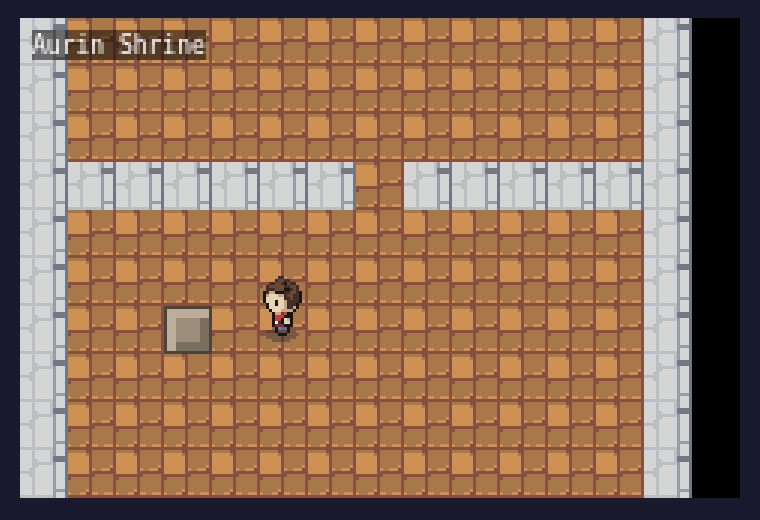
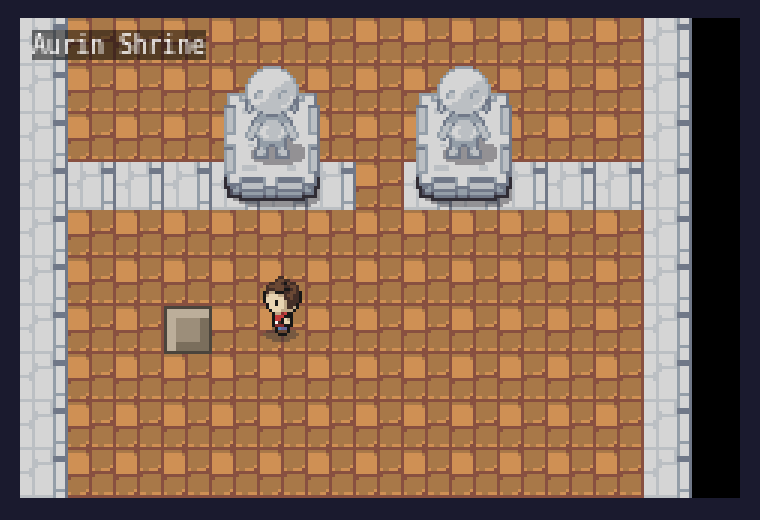
Terrace reads as elevation; stone shrine facade; direction-aware stairs
- Stairs textures split into stairs_h (east-west climb, vertical risers)
  and stairs_v — the old single texture looked rotated 90 degrees
- Outskirts cliff wall now fully encloses the terrace (treeline to the
  south face) so the upper level cannot be entered except by the stairs
- New props feature: maps can place multi-tile structures from the
  sheet; used for the stone shrine entrance (arched facade with wooden
  doors) on the terrace and two guardian statues flanking the trial
  gate inside the shrine
- Smoke test adjusted for the new shrine door position

Changed region(s): [[0.5447, 0.1231, 0.6961, 0.4], [0.2724, 0.1231, 0.4237, 0.4]]

diff --git a/src/engine/textures.ts b/src/engine/textures.ts
@@ -20,15 +20,17 @@ export const TILE_FRAMES: Record<number, number> = {
   6: f(25, 3), // arched doorway
   7: f(13, 15), // seal: cobble base, crystal drawn on top
   8: f(25, 1), // barred gate (solid until opened)
-  9: f(13, 15), // stairs: cobble base, generated steps drawn on top
+  9: f(13, 15), // stairs ascending east-west: cobble base + generated steps
   10: f(5, 13), // cliff face
   11: f(13, 15), // pressure plate: cobble base, generated plate on top
+  12: f(13, 15), // stairs ascending north-south: cobble base + generated steps
 };
 
 export const TREE_TILE = 3;
 export const SEAL_TILE = 7;
-export const STAIRS_TILE = 9;
+export const STAIRS_H_TILE = 9;
 export const PLATE_TILE = 11;
+export const STAIRS_V_TILE = 12;
 /** Tile id that opened gates turn into. */
 export const FLOOR_TILE = 1;
 
@@ -74,17 +76,35 @@ export function setupDerivedTextures(scene: Phaser.Scene): void {
     g.destroy();
   }
 
-  // stone steps (original): four treads with darker risers
-  if (!scene.textures.exists("stairs")) {
+  // stone steps (original). Risers run perpendicular to the climb:
+  // stairs_h climbs east-west (vertical risers), stairs_v north-south.
+  if (!scene.textures.exists("stairs_h")) {
     const g = scene.add.graphics();
-    g.fillStyle(0xa8a098);
-    g.fillRect(0, 0, TILE_SIZE, TILE_SIZE);
-    g.fillStyle(0x6a625a);
-    for (let i = 0; i < 4; i++) g.fillRect(0, i * 4 + 3, TILE_SIZE, 1);
-    g.fillStyle(0x8a827a);
+    for (let i = 0; i < 4; i++) {
+      // each step slightly lighter toward the top of the climb (east)
+      g.fillStyle([0x8a8278, 0x9a9288, 0xaaa298, 0xbab2a8][i]);
+      g.fillRect(i * 4, 0, 4, TILE_SIZE);
+      g.fillStyle(0x5a544c);
+      g.fillRect(i * 4, 0, 1, TILE_SIZE);
+    }
+    g.fillStyle(0x4a443c);
+    g.fillRect(0, 0, TILE_SIZE, 1);
+    g.fillRect(0, 15, TILE_SIZE, 1);
+    g.generateTexture("stairs_h", TILE_SIZE, TILE_SIZE);
+    g.destroy();
+  }
+  if (!scene.textures.exists("stairs_v")) {
+    const g = scene.add.graphics();
+    for (let i = 0; i < 4; i++) {
+      g.fillStyle([0xbab2a8, 0xaaa298, 0x9a9288, 0x8a8278][i]);
+      g.fillRect(0, i * 4, TILE_SIZE, 4);
+      g.fillStyle(0x5a544c);
+      g.fillRect(0, i * 4, TILE_SIZE, 1);
+    }
+    g.fillStyle(0x4a443c);
     g.fillRect(0, 0, 1, TILE_SIZE);
     g.fillRect(15, 0, 1, TILE_SIZE);
-    g.generateTexture("stairs", TILE_SIZE, TILE_SIZE);
+    g.generateTexture("stairs_v", TILE_SIZE, TILE_SIZE);
     g.destroy();
   }
 

diff --git a/src/scenes/WorldScene.ts b/src/scenes/WorldScene.ts
@@ -12,7 +12,8 @@ import {
   HERO_WALK,
   PLATE_TILE,
   SEAL_TILE,
-  STAIRS_TILE,
+  STAIRS_H_TILE,
+  STAIRS_V_TILE,
   TILE_FRAMES,
   TILE_SIZE,
   TREE_TILE,
@@ -114,12 +115,35 @@ export class WorldScene extends Phaser.Scene {
             .image(x * TILE_SIZE, y * TILE_SIZE, "seal_crystal")
             .setOrigin(0, 0)
             .setDepth(y * TILE_SIZE);
-        } else if (id === STAIRS_TILE) {
-          this.add.image(x * TILE_SIZE, y * TILE_SIZE, "stairs").setOrigin(0, 0);
+        } else if (id === STAIRS_H_TILE) {
+          this.add
+            .image(x * TILE_SIZE, y * TILE_SIZE, "stairs_h")
+            .setOrigin(0, 0);
+        } else if (id === STAIRS_V_TILE) {
+          this.add
+            .image(x * TILE_SIZE, y * TILE_SIZE, "stairs_v")
+            .setOrigin(0, 0);
         } else if (id === PLATE_TILE) {
           this.add.image(x * TILE_SIZE, y * TILE_SIZE, "plate").setOrigin(0, 0);
         }
       }
+    }
+
+    // decorative props (multi-tile structures from the sheet)
+    const overworld = this.textures.get("overworld");
+    for (const [i, p] of (this.map.props ?? []).entries()) {
+      const key = `prop_${this.mapId}_${i}`;
+      const [sx, sy, w, h] = p.sheet;
+      if (!overworld.has(key)) overworld.add(key, 0, sx, sy, w, h);
+      this.add
+        .image(
+          p.x * TILE_SIZE + (p.dx ?? 0),
+          p.y * TILE_SIZE + (p.dy ?? 0),
+          "overworld",
+          key
+        )
+        .setOrigin(0, 0)
+        .setDepth(p.y * TILE_SIZE + h - TILE_SIZE);
     }
 
     // pushable blocks

diff --git a/src/engine/types.ts b/src/engine/types.ts
@@ -23,6 +23,19 @@ export interface MapData {
   blocks?: Point[];
   /** Block-on-plate puzzle: cover all plates to open all gates. */
   puzzle?: PuzzleData;
+  /** Decorative multi-tile structures drawn from the overworld sheet. */
+  props?: PropData[];
+}
+
+export interface PropData {
+  /** Source rect on the overworld sheet: [x, y, width, height] pixels. */
+  sheet: [number, number, number, number];
+  /** Top-left tile position in the map. */
+  x: number;
+  y: number;
+  /** Optional pixel nudge. */
+  dx?: number;
+  dy?: number;
 }
 
 export interface Point {

diff --git a/STATE.md b/STATE.md
@@ -40,17 +40,30 @@ right); NPCs are the tinted `NPC_test.png` template — distinct colors,
 but bald placeholder figures. Seal crystal remains original generated
 art. Public server on :4173 serves `dist/` — rebuild to publish.
 
+## Puzzle/terrain layer (added fourth iteration, 2026-06-11)
+
+Tile ids 8 (barred gate), 9 (stairs, generated art), 10 (cliff face),
+11 (pressure plate, generated). Maps may declare `blocks` (pushable) and
+`puzzle: {plates, gates, solvedFlag}` — covering all plates flips gate
+tiles to floor and sets the flag (gates start open if flag already set).
+Map data is structuredClone'd per scene create because puzzles mutate
+tiles. Outskirts has a cliff terrace + stairs; the shrine is a two-room
+dungeon (block trial gates the inner sanctum). Smoke test covers the
+whole walk including the puzzle.
+
+User feedback fixed this iteration: hero left/right walk rows were
+swapped (moonwalk); dialogue box now depth 10000 + paginates long text
+(3 wrapped lines per page).
+
 ## Next up (in order)
 
-1. Per-character NPC look: either recolored character-sheet variants
-   (hair/clothes palette swap at load time) or hand-picked sprites from
-   another CC0 pack; NPC facing toward the player when talked to.
-2. Act 1 closing beat: departure scene (talk to all three companions
-   after the breach → flag `act1_complete` → narration at the south
-   gate). Cheap, pure data + maybe one engine touch.
-3. Interiors via `Inner.png` (already in the pack) — house/shrine inside
-   maps behind the arched doors.
-4. Battle system design doc before any battle code (elements, Kindred).
+1. Battle system design doc, then implementation (elements, Kindred) —
+   user explicitly wants monsters in the shrine.
+2. Per-character NPC look (palette-swapped character sheets) + NPCs
+   face the player when addressed.
+3. Act 1 closing beat: departure scene after the breach.
+4. Interiors via `Inner.png` (house/shrine inner rooms); richer cliff
+   edges (grass-top cap tiles) for the terraces.
 
 ## Decisions made
 